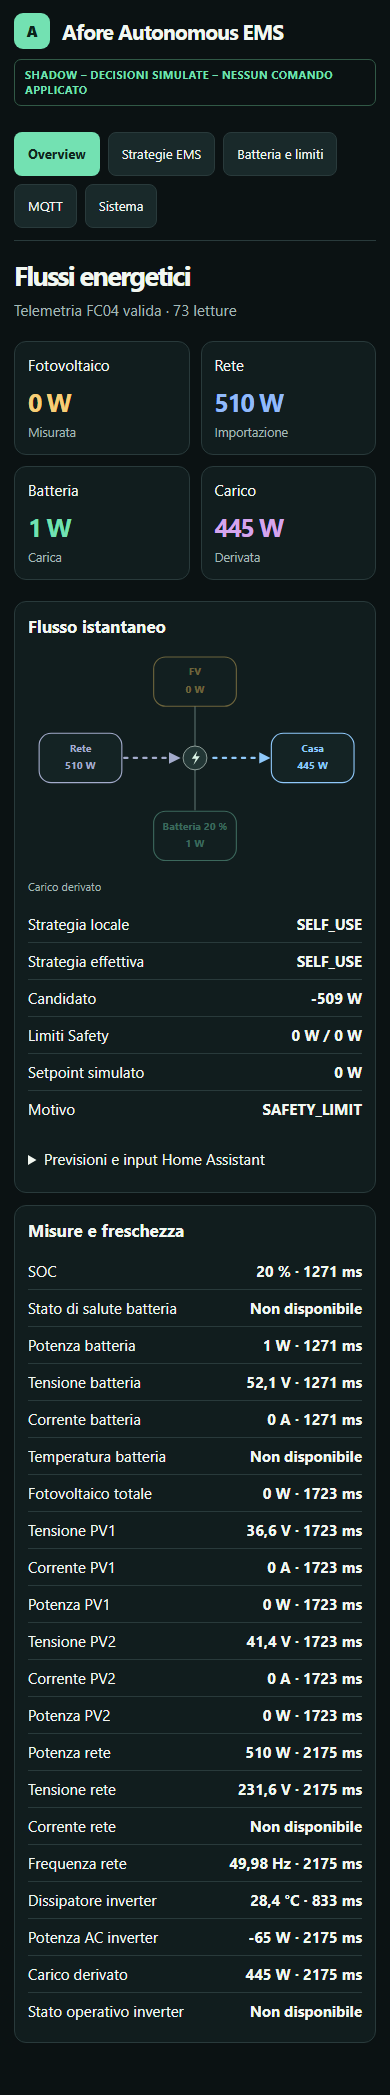
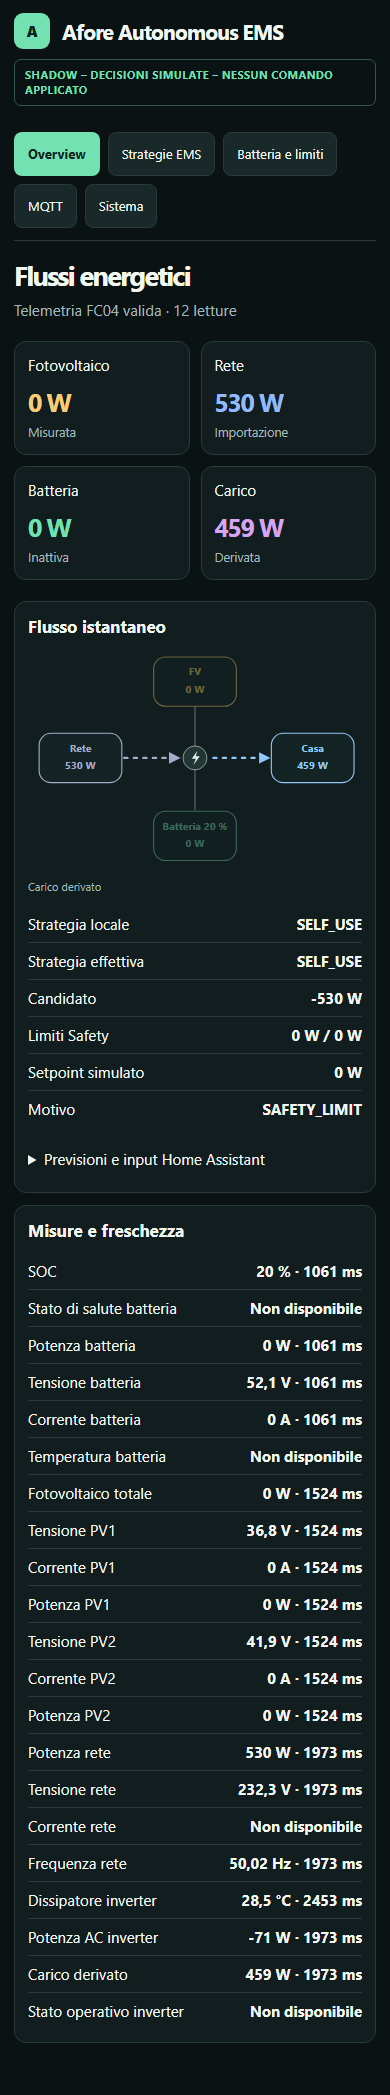
Verify mobile console and record one-hour M5 stability

diff --git a/src/v51/dashboard.html b/src/v51/dashboard.html
@@ -1,6 +1,6 @@
 <!doctype html><html lang="it"><head><meta charset="utf-8"><meta name="viewport" content="width=device-width,initial-scale=1"><title>Afore EMS</title><style>
 :root{color-scheme:dark;--bg:#0b1213;--panel:#111d1e;--line:#293a3b;--text:#f2f7f1;--muted:#a3b8b6;--green:#73e1b2;--sun:#f7ce77;--grid:#91bafa;--load:#d5a5ed}*{box-sizing:border-box}body{margin:0;background:var(--bg);color:var(--text);font:15px system-ui,sans-serif}main,header{max-width:1140px;margin:auto;padding:26px 28px}header{display:flex;justify-content:space-between;gap:20px;align-items:center}header b{font-size:21px;letter-spacing:-.04em}.brand{display:flex;gap:12px;align-items:center}.mark{display:grid;place-items:center;background:var(--green);color:#0b231b;width:36px;height:36px;border-radius:9px;font-weight:900}.badge{color:var(--green);border:1px solid #315946;border-radius:7px;padding:7px 10px;font-size:11px;font-weight:750;letter-spacing:.04em}nav{display:flex;flex-wrap:wrap;gap:8px;margin-bottom:28px;border-bottom:1px solid var(--line);padding-bottom:12px}button,input,select{font:inherit}button{cursor:pointer;min-height:44px;padding:8px 13px;border:1px solid var(--line);border-radius:8px;background:#19292a;color:var(--text)}button[aria-selected=true],.primary{background:var(--green);color:#10251e;border-color:transparent;font-weight:750}h1{font-size:clamp(27px,4vw,42px);letter-spacing:-.06em;margin:0 0 7px}h2{font-size:17px;margin:0 0 12px}p{line-height:1.55}.sub,small{color:var(--muted)}.metrics{display:grid;grid-template-columns:repeat(4,1fr);gap:11px;margin:21px 0}.card,article{background:var(--panel);border:1px solid var(--line);border-radius:12px;padding:16px}.card .number{font-size:31px;font-weight:700;letter-spacing:-.055em;margin:10px 0 3px}.card:nth-child(1) .number{color:var(--sun)}.card:nth-child(2) .number{color:var(--grid)}.card:nth-child(3) .number{color:var(--green)}.card:nth-child(4) .number{color:var(--load)}.split{display:grid;gap:12px;grid-template-columns:1.1fr 1fr}.flow{display:grid;grid-template-columns:1fr auto 1fr;gap:12px;align-items:center;margin:22px 0}.flow span{padding:9px;background:#192a2a;border-radius:7px;text-align:center}.rows{display:grid;gap:0}.row{display:flex;justify-content:space-between;gap:12px;padding:8px 0;border-bottom:1px solid var(--line)}.row:last-child{border:0}.row strong{text-align:right}.grid{display:grid;grid-template-columns:repeat(auto-fit,minmax(200px,1fr));gap:12px}label{display:grid;gap:6px;color:var(--muted)}input,select{width:100%;background:#0c1718;color:var(--text);padding:9px 10px;min-height:44px;border:1px solid #3b5353;border-radius:7px}input[type=checkbox]{width:22px;min-height:22px;accent-color:var(--green)}.actions{display:flex;gap:8px;flex-wrap:wrap;margin-top:16px}a{color:var(--green)}.status{min-height:27px;color:var(--green);margin-top:12px}.status[data-error=true]{color:#ff9b9b}code{overflow-wrap:anywhere}.empty{color:var(--muted)}details{margin-top:12px}summary{cursor:pointer;padding:10px 0}.tag{font-size:11px;color:var(--muted)}[hidden]{display:none!important}@media(max-width:660px){header,main{padding:13px 14px}header{align-items:flex-start;flex-direction:column;gap:10px}.metrics{grid-template-columns:repeat(2,1fr)}.split{grid-template-columns:1fr}.card,article{padding:13px}.card .number{font-size:25px}.grid{grid-template-columns:1fr}nav{margin-bottom:16px}nav button{font-size:13px}.badge{line-height:1.4}}
-#powerFlow{width:100%;height:auto;display:block;margin-top:8px}.edges path{fill:none;stroke:#445655;stroke-width:2;stroke-linecap:round}.edges path.active{stroke-dasharray:4 8;animation:stream 1.15s linear infinite;marker-end:url(#arrow)}.edges path.reverse{marker-start:url(#arrow);marker-end:none;animation-direction:reverse}@keyframes stream{to{stroke-dashoffset:-24}}.nodes g{--node:#a4accc}.nodes .solar{--node:#f6cf6b}.nodes .house{--node:#90c9fb}.nodes .battery{--node:#7dd9ba}.nodes rect{fill:#142324;stroke:var(--node);stroke-width:1.4}.nodes text{text-anchor:middle;fill:var(--node);font-size:13px;font-weight:700}.nodes .idle{opacity:.4}@media(prefers-reduced-motion:reduce){.edges path.active{animation:none}}.fieldhelp{position:relative;display:grid;gap:6px}.help{padding:0;width:27px;min-height:27px;font-size:13px;border-radius:50%;margin-left:5px}.tip{position:absolute;top:29px;left:0;right:0;z-index:5;padding:9px;background:#1c3436;border:1px solid var(--green);border-radius:8px;color:var(--text);display:none}.help:hover+.tip,.help:focus+.tip,.help[aria-expanded=true]+.tip{display:block}.fieldhelp input[type=range]{width:100%;min-height:26px;padding:0;accent-color:var(--green)}
+#powerFlow{width:100%;height:auto;display:block;margin-top:8px}.edges path{fill:none;stroke:#445655;stroke-width:2;stroke-linecap:round}.edges path.active{stroke-dasharray:4 8;animation:stream 1.15s linear infinite;marker-end:url(#arrow)}.edges path.reverse{marker-start:url(#arrow);marker-end:none;animation-direction:reverse}@keyframes stream{to{stroke-dashoffset:-24}}.nodes g{--node:#a4accc}.nodes .solar{--node:#f6cf6b}.nodes .house{--node:#90c9fb}.nodes .battery{--node:#7dd9ba}.nodes rect{fill:#142324;stroke:var(--node);stroke-width:1.4}.nodes text{text-anchor:middle;fill:var(--node);font-size:13px;font-weight:700}.nodes .idle{opacity:.4}@media(prefers-reduced-motion:reduce){.edges path.active{animation:none}}.fieldhelp{position:relative;display:grid;gap:6px;min-width:0}.fieldhelp label{min-width:0;overflow-wrap:anywhere}.help{padding:0;width:27px;min-height:27px;font-size:13px;border-radius:50%;margin-left:5px}.tip{position:absolute;top:29px;left:0;right:0;z-index:5;padding:9px;background:#1c3436;border:1px solid var(--green);border-radius:8px;color:var(--text);display:none}.help:hover+.tip,.help:focus+.tip,.help[aria-expanded=true]+.tip{display:block}.fieldhelp input[type=range]{width:100%;min-height:26px;padding:0;accent-color:var(--green)}
 </style></head><body><header><div class="brand"><span class="mark" aria-hidden="true">A</span><b>Afore Autonomous EMS</b></div><span class="badge">SHADOW – DECISIONI SIMULATE – NESSUN COMANDO APPLICATO</span></header><main>
 <nav aria-label="Sezioni"><button data-pane="overview" aria-selected="true">Overview</button><button data-pane="strategies">Strategie EMS</button><button data-pane="limits">Batteria e limiti</button><button data-pane="mqtt">MQTT</button><button data-pane="system">Sistema</button></nav>
 <section id="overview"><h1>Flussi energetici</h1><div class="sub" id="live">Connessione al dispositivo…</div><div class="metrics" id="cards"></div><div class="split"><article><h2>Flusso istantaneo</h2><svg id="powerFlow" viewBox="0 0 420 274" role="img" aria-label="Flusso energetico fra fotovoltaico, casa, batteria e rete">
@@ -67,10 +67,10 @@ grid_target_w:['W',0,'SELF_USE','Scambio obiettivo: positivo per importazione.']
 const limits={soc_target:[1,100],deadline_minute:[0,1439],target_deadline_s:[1,604800],hold_s:[1,604799],maintenance_soc:[1,100],soc_hysteresis:[1,10],maintenance_timeout_s:[2,604800],charge_first_s:[1,604800],charge_first_w:[0,20000],target_w:[0,20000],stale_ms:[500,30000],soc_min:[0,99],soc_max:[1,100],soc_resume:[0,100],charge_a:[0,500],discharge_a:[0,500],charge_w:[0,20000],discharge_w:[0,20000],voltage_min:[0,1000],voltage_max:[0,1000],capacity_wh:[100,100000],nominal_mv:[1000,1000000],efficiency_pct:[1,100],deadband_w:[0,1000],ramp_w_s:[1,20000],export_limit_w:[0,20000],grid_target_w:[-20000,20000]};
 function addFieldHelp(grid,label,name,input){
  const box=element('div',null,'fieldhelp');const h=helpFields[name];
- if(h){const title=element('div');title.append(document.createTextNode(label.textContent));label.replaceChildren(title,input);
+ if(h){const title=element('div');title.append(document.createTextNode(label.firstChild.textContent));label.replaceChildren(title,input);
  const button=element('button','?','help');button.type='button';button.setAttribute('aria-label','Spiegazione di '+name);button.setAttribute('aria-expanded','false');button.setAttribute('aria-controls','tip-'+name);
  const message=element('span',h[3]+' Unità: '+h[0]+'. Default: '+h[1]+'. Strategie: '+h[2]+'.','tip');message.id='tip-'+name;message.setAttribute('role','tooltip');input.setAttribute('aria-describedby',message.id);
- title.append(button,message);button.onclick=e=>{e.preventDefault();button.setAttribute('aria-expanded',button.getAttribute('aria-expanded')!=='true')};button.onkeydown=e=>{if(e.key==='Escape')button.setAttribute('aria-expanded','false')};}
+ title.append(button,message);button.onclick=e=>{e.preventDefault();button.setAttribute('aria-expanded',button.getAttribute('aria-expanded')!=='true')};button.onkeydown=e=>{if(e.key==='Escape'){button.setAttribute('aria-expanded','false');input.focus()}};}
  box.append(label);
  if(limits[name]){const [lo,hi]=limits[name];input.min=lo;input.max=hi;input.required=true;
  const slider=element('input');slider.type='range';slider.min=lo;slider.max=hi;slider.value=input.value;slider.setAttribute('aria-label',name);

diff --git a/docs/v5.1/MISSION_5.md b/docs/v5.1/MISSION_5.md
@@ -1,6 +1,6 @@
 # Mission 5 · Console, manual AUX and HA inputs
 
-Firmware v5.1-console-3, signed OTA SHA-256 d1e9c09a1f06e0f70c6f00c0367f95dc04e2e23cf5564220f9ad508f68ba260d. Console at http://10.0.0.110/. The configured production MQTT host, credentials, device ID, prefix and base topic are retained. The previous SHADOW image remains available for OTA rollback. Modbus remains FC04 only.
+Firmware v5.1-console-3, signed OTA SHA-256 fcdd543c07650ce3dbf29d400f04355ab582691a92e00d6f2000cd198906fa42. Console at http://10.0.0.110/. The configured production MQTT host, credentials, device ID, prefix and base topic are retained. The previous SHADOW image remains available for OTA rollback. Modbus remains FC04 only.
 
 The HA/Solarman defaults are 10,240 Wh, 51.2 V nominal, 50 A charge/discharge, 20–100% SOC, 100% target and 3,300 W export limit. The independent 1,000 W caps remain active. Daily TARGET_SOC expires at 15:30 Europe/Rome and re-arms the next local day. Relative duration is still selectable and serves as the fallback without a valid wall clock.
 
@@ -21,3 +21,7 @@ The console replaces the flow list with a self-contained SVG diagram, poll inter
 [Desktop overview](evidence/M5_desktop_overview.png) · [Desktop tooltip](evidence/M5_desktop_tooltip.png) · [Desktop system](evidence/M5_desktop_system.png)
 
 [Mobile overview](evidence/M5_mobile_overview.png) · [Mobile tooltip](evidence/M5_mobile_tooltip.png) · [Mobile system](evidence/M5_mobile_system.png)
+
+## Final stability window
+
+The final OTA app1 image passed the mobile label/tooltip verification. The consecutive field observation covered 3607.67 s and 338 samples. FC04 reads advanced from 14 to 7965 (7951 in-window), with zero errors, no unexpected reset and monotonically increasing decision sequence. Free heap was 160184 B initially, 159368 B finally and 157696 B at the lowest sampled point. RSSI -71 to -59 dBm. All samples showed original MQTT connected, AUX OFF, GPIO47 LOW, executed=false and zero Modbus writes. [CSV](evidence/M5_STABILITY.csv).
